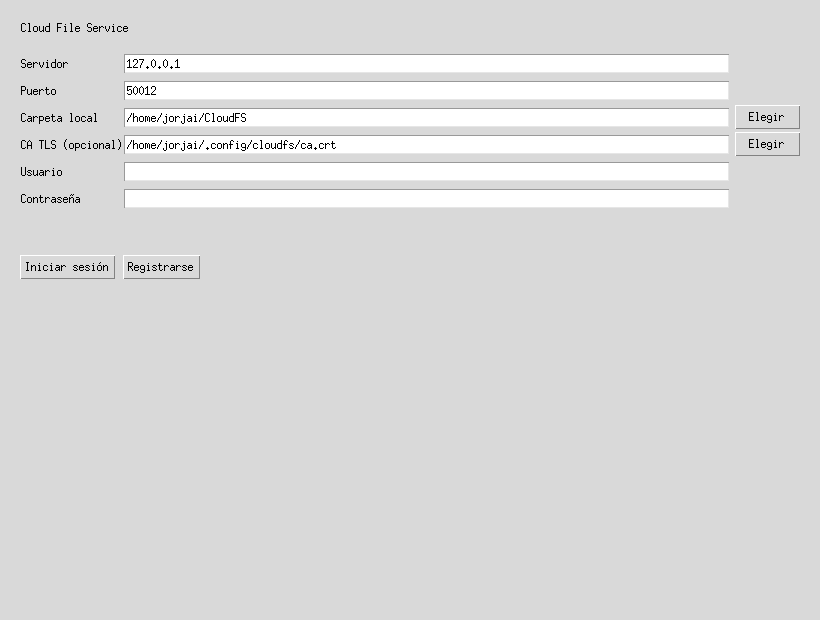
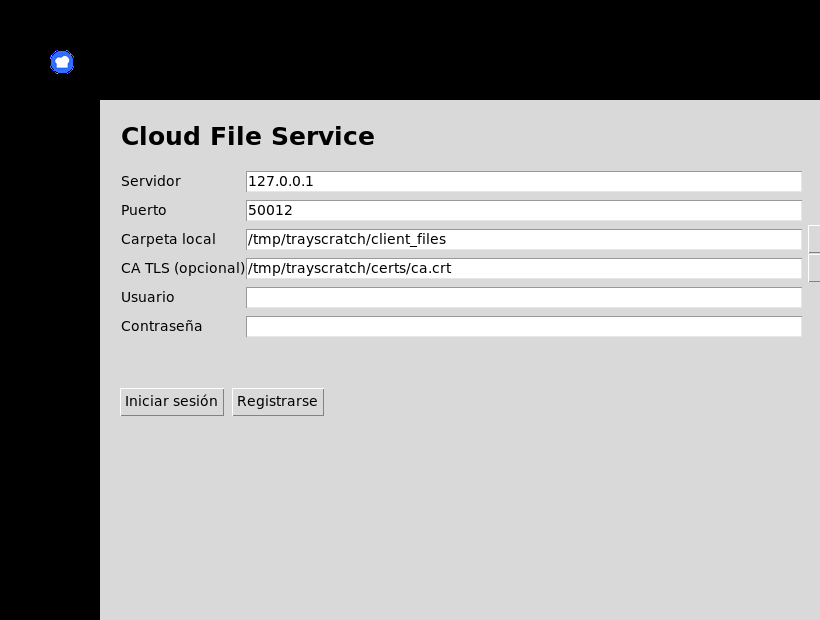
docs: add file manager screenshot; finalize desktop capture set

diff --git a/docs/installation.md b/docs/installation.md
@@ -454,6 +454,13 @@ The settings tab exposes the server, folder and CA paths:
 
 ![Client settings tab](assets/setup/client-settings.png)
 
+### First synchronized file
+
+Create a file in `~/CloudFS` on `client1`. It appears on the server under
+`files/alice/` and, if shared, on `client2`:
+
+![Synchronized folder](assets/setup/files-synced.png)
+
 To start the GUI automatically on login, add a desktop entry:
 
 ```sh
